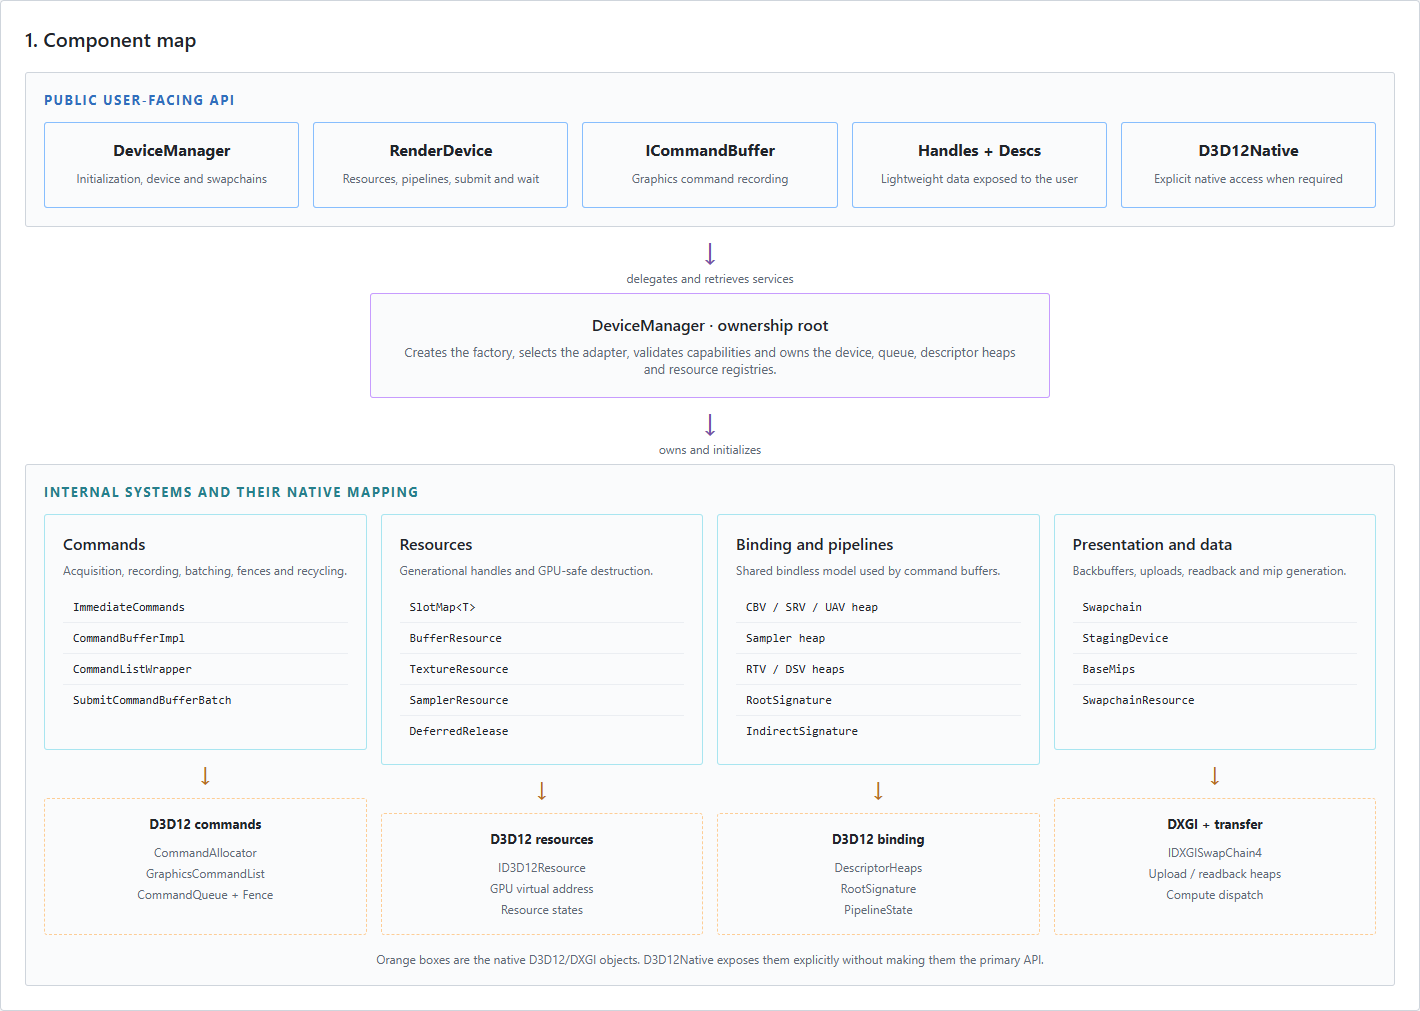
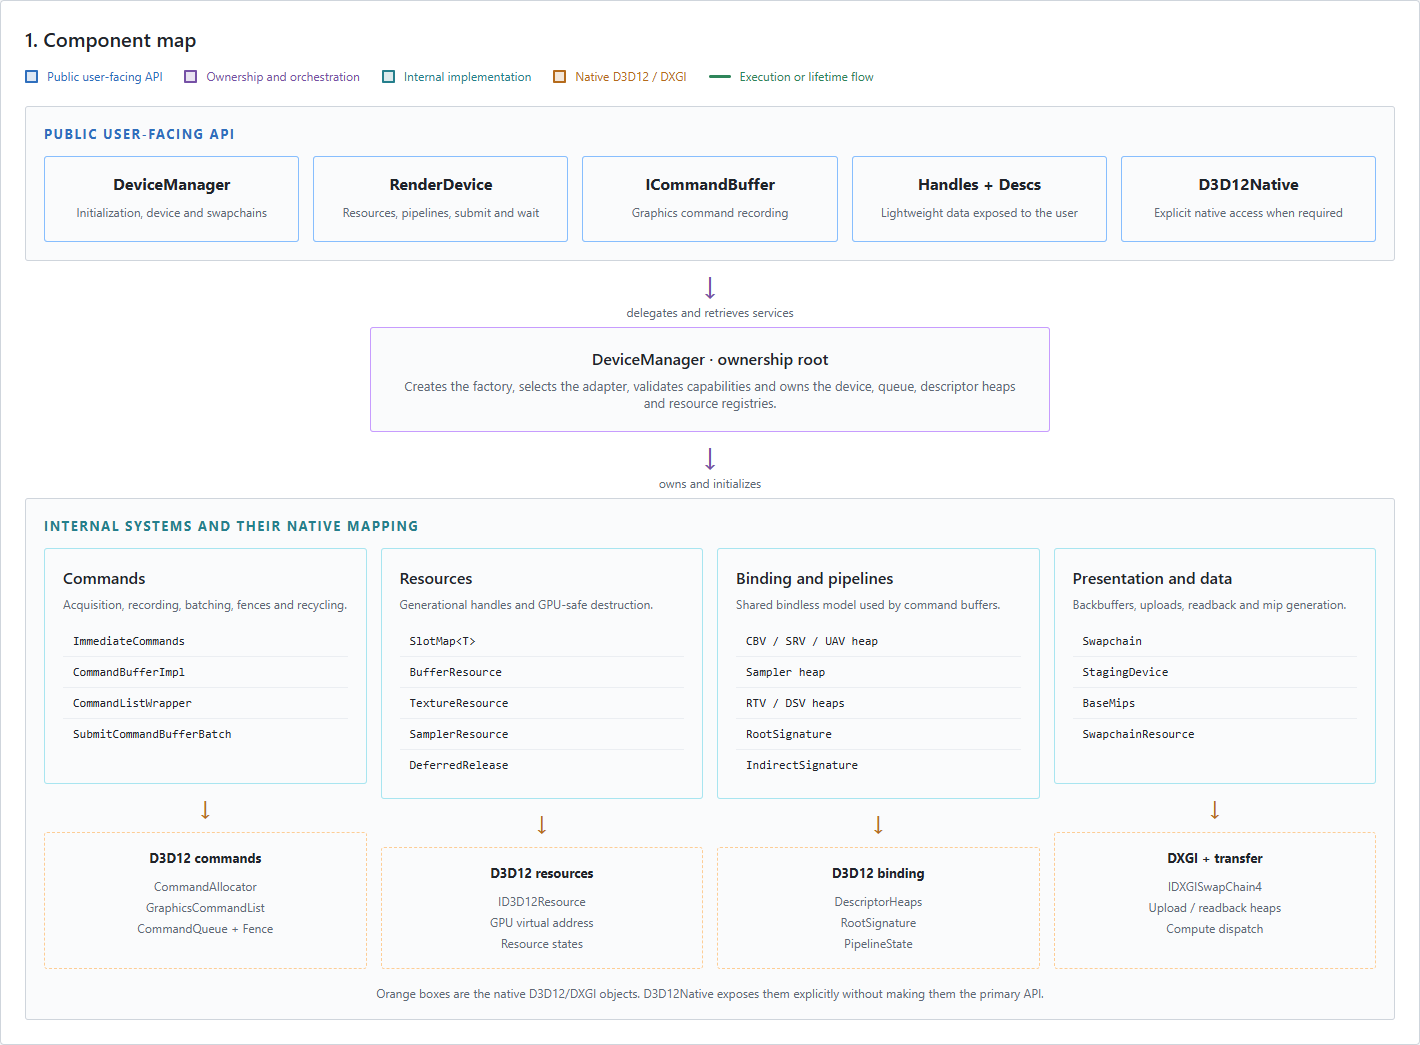
Add legends to architecture diagrams

diff --git a/Ldx12/docs/architecture.html b/Ldx12/docs/architecture.html
@@ -110,6 +110,15 @@
 			background: var(--green);
 		}
 
+		.section-legend {
+			display: flex;
+			flex-wrap: wrap;
+			gap: 10px 22px;
+			width: fit-content;
+			min-width: 0;
+			margin: -8px 0 18px;
+		}
+
 		.diagram {
 			margin-bottom: 28px;
 			padding: 24px;
@@ -607,17 +616,17 @@
 		<h1>Ldx12 Architecture</h1>
 		<div class="header-row">
 			<p class="intro">Read from top to bottom. The public user-facing API delegates to DeviceManager, DeviceManager owns the internal systems, and each system maps to a specific D3D12 or DXGI area.</p>
-			<div class="legend" aria-label="Architecture color legend">
+		</div>
+
+		<section class="diagram" id="component-map">
+			<h2>1. Component map</h2>
+			<div class="legend section-legend" aria-label="Architecture color legend">
 				<span style="color: var(--blue)"><i></i>Public user-facing API</span>
 				<span style="color: var(--purple)"><i></i>Ownership and orchestration</span>
 				<span style="color: var(--cyan)"><i></i>Internal implementation</span>
 				<span style="color: var(--orange)"><i></i>Native D3D12 / DXGI</span>
 				<span class="flow-key" style="color: var(--green)"><i></i>Execution or lifetime flow</span>
 			</div>
-		</div>
-
-		<section class="diagram" id="component-map">
-			<h2>1. Component map</h2>
 
 			<div class="layer">
 				<div class="layer-title" style="color: var(--blue)">Public user-facing API</div>
@@ -747,6 +756,13 @@
 
 		<section class="diagram" id="bindless-layout">
 			<h2>4. Bindless layout and root signature</h2>
+			<div class="legend section-legend" aria-label="Bindless diagram color legend">
+				<span style="color: var(--blue)"><i></i>Public user-facing API</span>
+				<span style="color: var(--purple)"><i></i>Ownership and orchestration</span>
+				<span style="color: var(--cyan)"><i></i>Internal implementation</span>
+				<span style="color: var(--orange)"><i></i>Native D3D12 / DXGI</span>
+				<span class="flow-key" style="color: var(--green)"><i></i>Execution or lifetime flow</span>
+			</div>
 			<div class="bindless-picture-shell">
 				<svg class="bindless-picture" viewBox="0 0 1400 790" role="img" aria-labelledby="bindless-title bindless-description">
 					<title id="bindless-title">Ldx12 bindless root signature and descriptor heaps</title>
